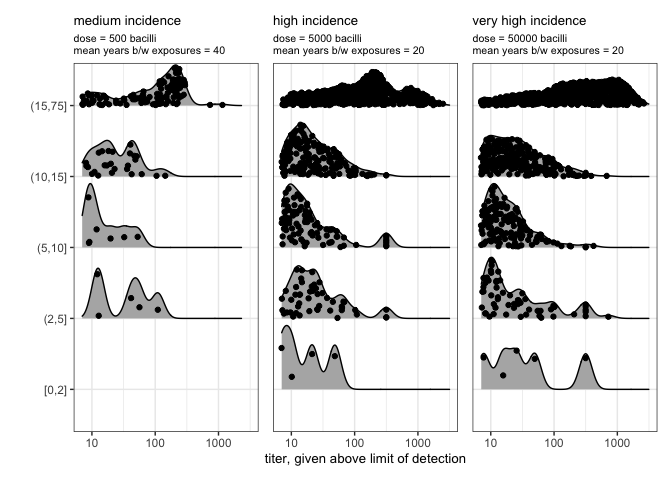
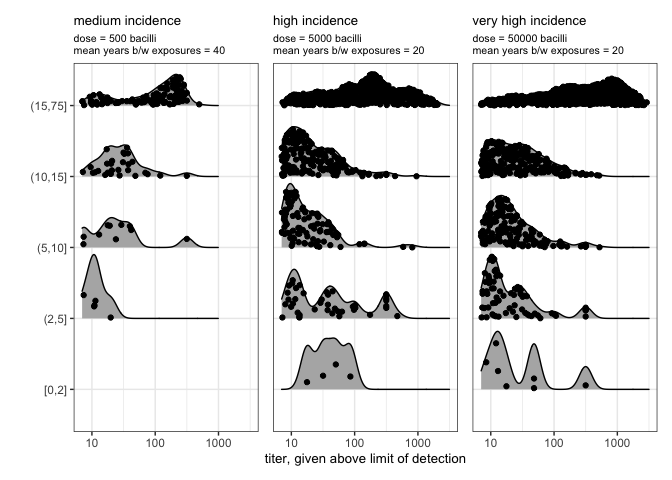
Deployed 6e59719 with MkDocs version: 1.6.1

diff --git a/blog/2025/04/25/a-view-over-the-horizon-cohort-incidence-model/index.html b/blog/2025/04/25/a-view-over-the-horizon-cohort-incidence-model/index.html
@@ -1587,7 +1587,10 @@ if (!file.exists('scratch/output_cache.RData')){
 <p>And, for summarizing the results, let’s calculate incidence per 100k
 people by age and overall from the events data, and include the total
 incidence archetype targets for reference.</p>
-<pre><code># calculate incidence
+<pre><code># incidence targets
+incidence_fever_targets = c(medium = 53,high=214,very_high=1255)
+
+# calculate incidence
 for (k in 1:length(output)){
 
   N = output[[k]]$config$N
@@ -1602,9 +1605,6 @@ for (k in 1:length(output)){
            incidence_infection_overall = sum(incidence_infection*age_width/sum(age_width)),
            incidence_fever_target = incidence_fever_targets[names(output)[k]])
 }
-
-# incidence targets
-incidence_fever_targets = c(medium = 53,high=214,very_high=1255)
 </code></pre>
 <h2 id="results">Results!</h2>
 <h3 id="incidence-by-age-and-across-setting-archetypes">Incidence by age and across setting archetypes</h3>
@@ -1751,6 +1751,7 @@ confidence intervals. The protective efficacy is calculated as the
 median and IQR of the protective efficacy given dose, which is a
 function of the exposure dose and the titer.</p>
 <pre><code>p_titer_summary=list()
+p_seropositive_summary=list()
 p_titer_density=list()
 p_protective_efficacy_infection_summary=list()
 p_protective_efficacy_fever_summary=list()
@@ -1768,6 +1769,7 @@ for (k in 1:length(output)){
            titer_lower_iqr = quantile(titer,probs=0.25),
            titer_upper_95 = quantile(titer,probs=0.975),
            titer_lower_95 = quantile(titer,probs=0.025),
+           fraction_seropositive_VaccZyme = mean(titer&gt;7),
            protective_efficacy_infection_median = median(protective_efficacy_infection),
            protective_efficacy_infection_upper_iqr = quantile(protective_efficacy_infection,probs=0.75),
            protective_efficacy_infection_lower_iqr = quantile(protective_efficacy_infection,probs=0.25),
@@ -1784,7 +1786,7 @@ for (k in 1:length(output)){
     geom_ribbon(aes(x=age_years,ymin=titer_lower_iqr,ymax=titer_upper_iqr),alpha=0.2)+
     geom_line(aes(x=age_years,y=titer_median)) + 
     geom_line(aes(x=age_years,y=titer_gmt),linetype='dashed') + 
-    scale_y_continuous(limits=c(1,10^3.5)) +
+    scale_y_continuous(limits=c(1,10^3.5),trans='log2') +
     theme_bw() +
     xlab('age') +
     labs(title = paste(sub('_',' ',names(output)[k]),' incidence',sep=''),
@@ -1793,6 +1795,18 @@ for (k in 1:length(output)){
     theme(plot.title=element_text(size=10),plot.subtitle=element_text(size=8),
           axis.title = element_text(size=10)) +
     ylab('anti-Vi IgG EU/ml')
+
+p_seropositive_summary[[k]] = ggplot(tmp_titer_summary) +
+    geom_line(aes(x=age_years,y=fraction_seropositive_VaccZyme)) + 
+    scale_y_continuous(limits=c(0,1)) +
+    theme_bw() +
+    xlab('age') +
+    labs(title = paste(sub('_',' ',names(output)[k]),' incidence',sep=''),
+         subtitle=paste('dose = ',output[[k]]$config$exposure_dose,' bacilli\nmean years b/w exposures = ',
+                        1/(12*output[[k]]$config$exposure_rate),sep='')) +
+    theme(plot.title=element_text(size=10),plot.subtitle=element_text(size=8),
+          axis.title = element_text(size=10)) +
+    ylab('fraction seropositive\n[anti-Vi IgG EU/ml &gt; 7]')
 
 p_protective_efficacy_infection_summary[[k]] = ggplot(tmp_titer_summary) +
     geom_ribbon(aes(x=age_years,ymin=protective_efficacy_infection_lower_95,ymax=protective_efficacy_infection_upper_95),alpha=0.2)+
@@ -1839,11 +1853,13 @@ p_protective_efficacy_fever_summary[[k]] = ggplot(tmp_titer_summary) +
           axis.title = element_text(size=10)) 
 }
 </code></pre>
-<p>This first plot shows the titer distribution by age, and</p>
-<pre><code>wrap_plots(p_titer_summary) + plot_layout(guides = "collect",axes='collect')
+<p>This first plot shows the titer distribution by age and the fraction
+detected positive on the VaccZyme anti-Vi IgG assay.</p>
+<pre><code>wrap_plots(wrap_plots(p_titer_summary),wrap_plots(p_seropositive_summary),nrow=2) + 
+  plot_layout(guides = "collect",axes='collect')
 </code></pre>
 <p><img alt="" src="../../../../cohort_incidence_model_proof_of_concept_files/figure-markdown_strict/unnamed-chunk-18-1.png" /></p>
-<p>the second shows the distribution of individual-level protective
+<p>The second shows the distribution of individual-level protective
 efficacies against infection and fever given those titers.</p>
 <pre><code>wrap_plots(wrap_plots(p_protective_efficacy_fever_summary),wrap_plots(p_protective_efficacy_infection_summary),nrow=2) + plot_layout(guides = "collect",axes='collect')
 </code></pre>
@@ -1906,7 +1922,7 @@ development are</p>
     <span class="md-icon" title="Last update">
       <svg xmlns="http://www.w3.org/2000/svg" viewBox="0 0 24 24"><path d="M21 13.1c-.1 0-.3.1-.4.2l-1 1 2.1 2.1 1-1c.2-.2.2-.6 0-.8l-1.3-1.3c-.1-.1-.2-.2-.4-.2m-1.9 1.8-6.1 6V23h2.1l6.1-6.1zM12.5 7v5.2l4 2.4-1 1L11 13V7zM11 21.9c-5.1-.5-9-4.8-9-9.9C2 6.5 6.5 2 12 2c5.3 0 9.6 4.1 10 9.3-.3-.1-.6-.2-1-.2s-.7.1-1 .2C19.6 7.2 16.2 4 12 4c-4.4 0-8 3.6-8 8 0 4.1 3.1 7.5 7.1 7.9l-.1.2z"/></svg>
     </span>
-    <span class="git-revision-date-localized-plugin git-revision-date-localized-plugin-date" title="June 23, 2025 18:29:55">June 23, 2025</span>
+    <span class="git-revision-date-localized-plugin git-revision-date-localized-plugin-date" title="July 15, 2025 22:27:55">July 15, 2025</span>
   </span>
 
     
